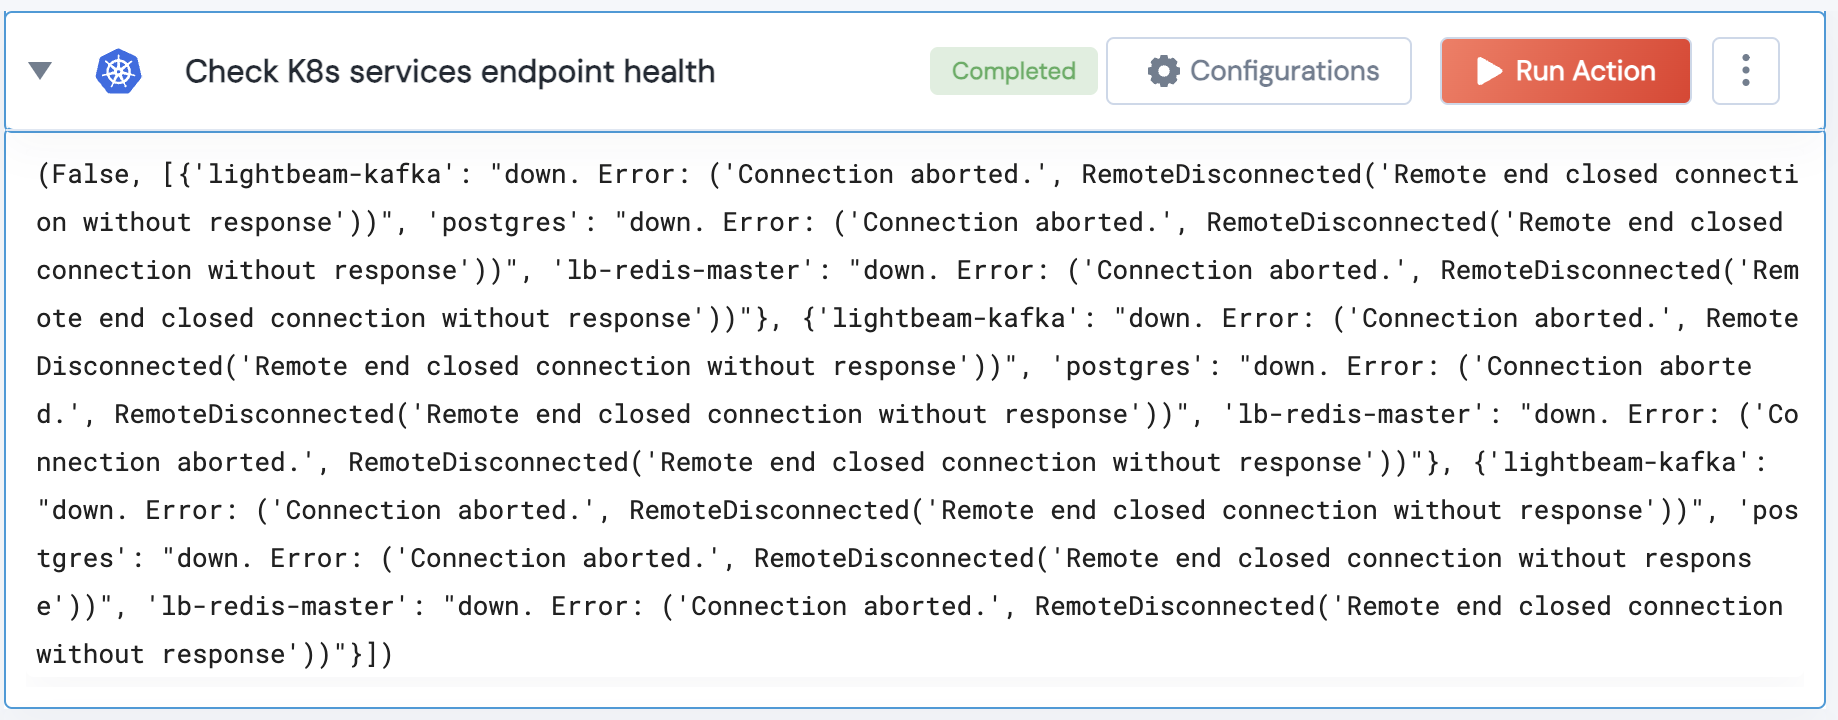
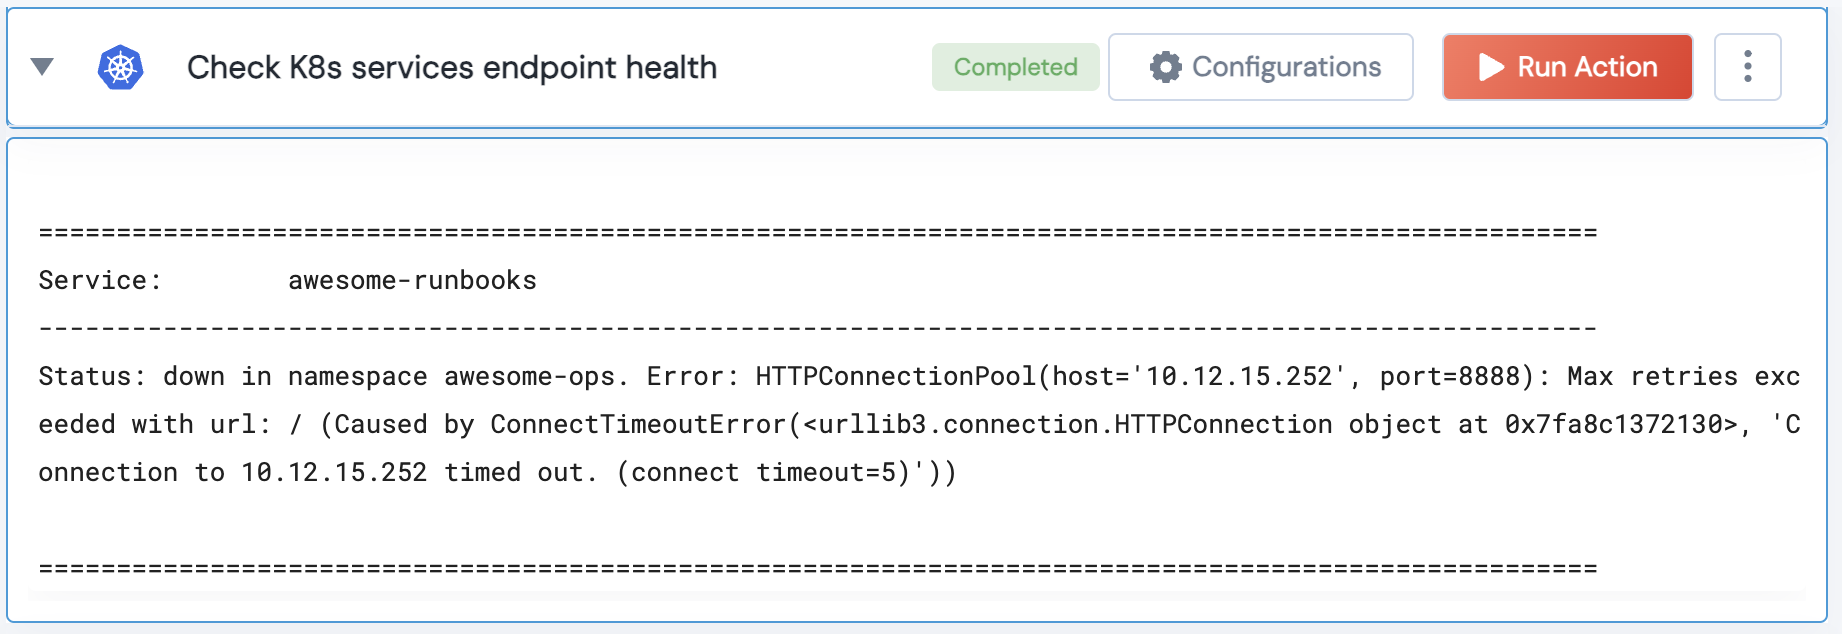
Fix Check K8s services endpoint health action

diff --git a/Kubernetes/legos/k8s_check_service_status/k8s_check_service_status.py b/Kubernetes/legos/k8s_check_service_status/k8s_check_service_status.py
@@ -3,7 +3,7 @@
 ##  All rights reserved.
 ##
 from pydantic import BaseModel, Field
-from typing import List, Tuple
+from typing import List, Tuple, Optional
 from requests.packages.urllib3.exceptions import InsecureRequestWarning
 import requests
 import json
@@ -13,22 +13,31 @@ requests.packages.urllib3.disable_warnings(InsecureRequestWarning)
 
 
 class InputSchema(BaseModel):
-    namespace: str = Field(
+    namespace: Optional[str] = Field(
         ...,
         description='Namespace in which the services are running.',
         title='K8s Namespace',
     )
-    services: List = Field(
+    services: Optional[List] = Field(
         ..., description='List of service names to be checked.', title='List of service names'
     )
 
 
-
-
 def k8s_check_service_status_printer(output):
-    if output is None:
+
+    status, result = output
+    if status:
+        print("All services are healthy.")
         return
-    print(output)
+
+    # If there are any unhealthy services
+    print("\n" + "=" * 100)  # main separator
+
+    for service, status_msg in result[0].items():
+        print(f"Service:\t{service}")
+        print("-" * 100)  # sub-separator
+        print(f"Status: {status_msg}\n")
+        print("=" * 100)  # main separator
 
 
 def get_service_url(service_name, namespace, handle):
@@ -41,25 +50,33 @@ def get_service_url(service_name, namespace, handle):
         return None
 
     service_info = json.loads(response.stdout)
-    ip = service_info['spec']['clusterIP']
-    port = service_info['spec']['ports'][0]['port']
+
+    # Check if 'spec' key exists in service_info
+    if 'spec' not in service_info:
+        print(f"Service '{service_name}' in namespace '{namespace}' does not contain 'spec' key.")
+        return None
+
+    ip = service_info['spec'].get('clusterIP', None)
+    port = None
+    if 'ports' in service_info['spec'] and len(service_info['spec']['ports']) > 0:
+        port = service_info['spec']['ports'][0].get('port', None)
 
     if ip and port:
         return f'http://{ip}:{port}'
     return None
 
 
-def k8s_check_service_status(handle, services:list, namespace:str) -> Tuple:
+def k8s_check_service_status(handle, services: list = "", namespace: str = "") -> Tuple:
     """
     k8s_check_service_status Checks the health status of the provided Kubernetes services.
 
     :type handle: object
     :param handle: Handle object to execute the kubectl command.
 
-    :type services: list
+    :type services: list, optional
     :param services: List of service names to be checked.
 
-    :type namespace: str
+    :type namespace: str, optional
     :param namespace: Namespace where the services reside.
 
     :return: Status, dictionary with service statuses.
@@ -67,27 +84,46 @@ def k8s_check_service_status(handle, services:list, namespace:str) -> Tuple:
     status_dict = {}
     result = []
 
-    for name in services:
-        url = get_service_url(name, namespace, handle)
+    # Get all namespaces if none is provided
+    if not namespace:
+        kubectl_command = "kubectl get namespace -o=jsonpath='{.items[*].metadata.name}'"
+        response = handle.run_native_cmd(kubectl_command)
+        if response is None or response.stderr:
+            raise ValueError(f"Error occurred while executing command {kubectl_command} {response.stderr if response else 'empty response'}")
+        namespaces = response.stdout.strip().split(' ')
+    else:
+        namespaces = [namespace]
 
-        if not url:
-            print(f'Unable to find service {name}')
-            continue
-
-        # Check service health
-        try:
-            response = requests.get(url, verify=True, timeout=5)
-            if response.status_code == 200:
+    # For each namespace
+    for ns in namespaces:
+        # If services are provided
+        if services or len(services)!=0:
+            services_to_check = services
+        else:
+            kubectl_command = f"kubectl get services -n {ns} -o=jsonpath='{{.items[*].metadata.name}}'"
+            response = handle.run_native_cmd(kubectl_command)
+            if response is None or response.stderr:
+                print(f"Error occurred while executing command {kubectl_command} {response.stderr if response else 'empty response'}")
                 continue
-            else:
-                status_dict[name] = f'unhealthy. Status code: {response.status_code}'
+            services_to_check = response.stdout.strip().split(' ')
+
+        for name in services_to_check:
+            url = get_service_url(name, ns, handle)
+
+            if not url:
+                print(f'Unable to find service {name} in namespace {ns}')
+                continue
+
+            # Check service health
+            try:
+                response = requests.get(url, verify=True, timeout=5)
+                if response.status_code != 200:
+                    status_dict[name] = f'unhealthy in namespace {ns}. Status code: {response.status_code}'
+                    result.append(status_dict)
+            except requests.RequestException as e:
+                status_dict[name] = f'down in namespace {ns}. Error: {str(e)}'
                 result.append(status_dict)
-        except requests.RequestException as e:
-            status_dict[name] = f'down. Error: {str(e)}'
-            result.append(status_dict)
 
     if len(result) != 0:
         return (False, result)
     return (True, None)
-
-

diff --git a/Kubernetes/legos/k8s_get_failed_deployments/k8s_get_failed_deployments.py b/Kubernetes/legos/k8s_get_failed_deployments/k8s_get_failed_deployments.py
@@ -2,7 +2,7 @@
 # Copyright (c) 2023 unSkript.com
 # All rights reserved.
 #
-from typing import List
+from typing import Tuple
 from pydantic import BaseModel, Field
 from kubernetes.client.rest import ApiException
 import json
@@ -21,7 +21,7 @@ def k8s_get_failed_deployments_printer(output):
     print(output)
 
 
-def k8s_get_failed_deployments(handle, namespace: str = '') -> List:
+def k8s_get_failed_deployments(handle, namespace: str = '') -> Tuple:
     """k8s_get_failed_deployments Returns all failed deployments across all namespaces
     or within a specific namespace if provided. The deployments are considered
     failed if the 'Available' condition is set to 'False'.

diff --git a/Kubernetes/legos/k8s_check_service_status/README.md b/Kubernetes/legos/k8s_check_service_status/README.md
@@ -6,10 +6,10 @@
 This action checks the health status of the provided Kubernetes services.
 
 ## Lego Details
-	k8s_check_service_status(handle, services:list, namespace:str)
+	k8s_check_service_status(handle, services:list="", namespace:str="")
 		handle: Object of type unSkript K8S Connector.
-		services: List of service names to be checked.
-		namespace: Namespace where the services reside.
+		services: Optional, List of service names to be checked.
+		namespace:Optional,  Namespace where the services reside.
 
 
 ## Lego Input
